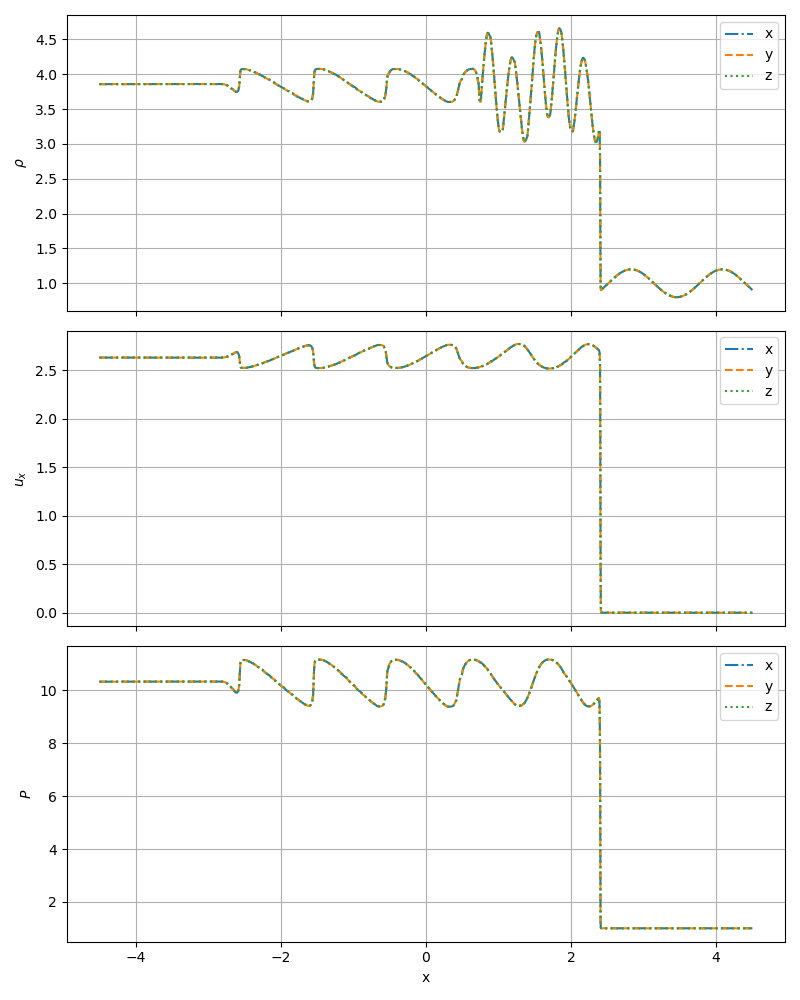
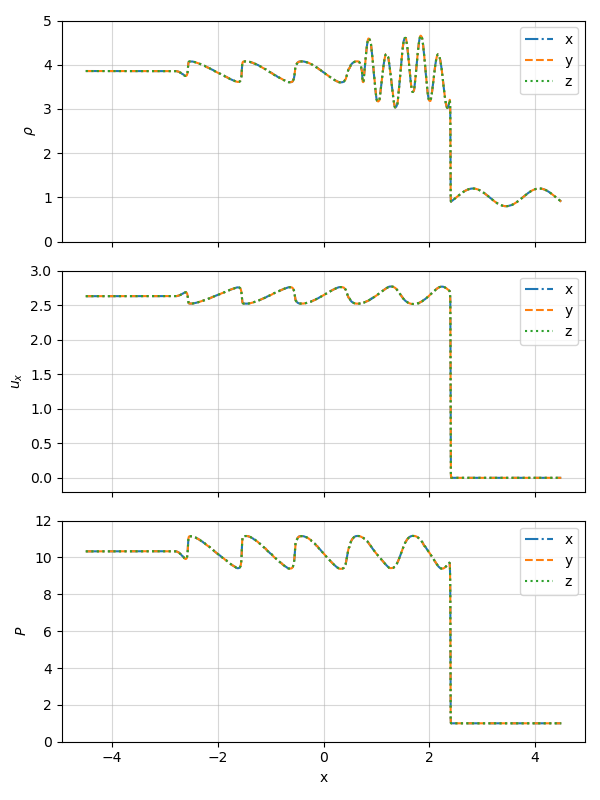
fixed image again

diff --git a/docs/einfeld.md b/docs/einfeld.md
@@ -64,6 +64,6 @@ By increasing $\nu_3$ to $\nu_3 = 1.0$, the
 
 Using the Ramses solver with the default settings yields the following figure:
 
-![foo](images/einfeldt/ramses_std.png)
+![](images/einfeldt/ramses_standard.png)
 
-We can see immediately that the velocity plot much more closely resembles the reference plot in [Stone et al.](https://iopscience.iop.org/article/10.1086/588755/pdf). 
+We can see immediately that the velocity plot much more closely resembles the reference plot in [Stone et al.](https://iopscience.iop.org/article/10.1086/588755/pdf) 
